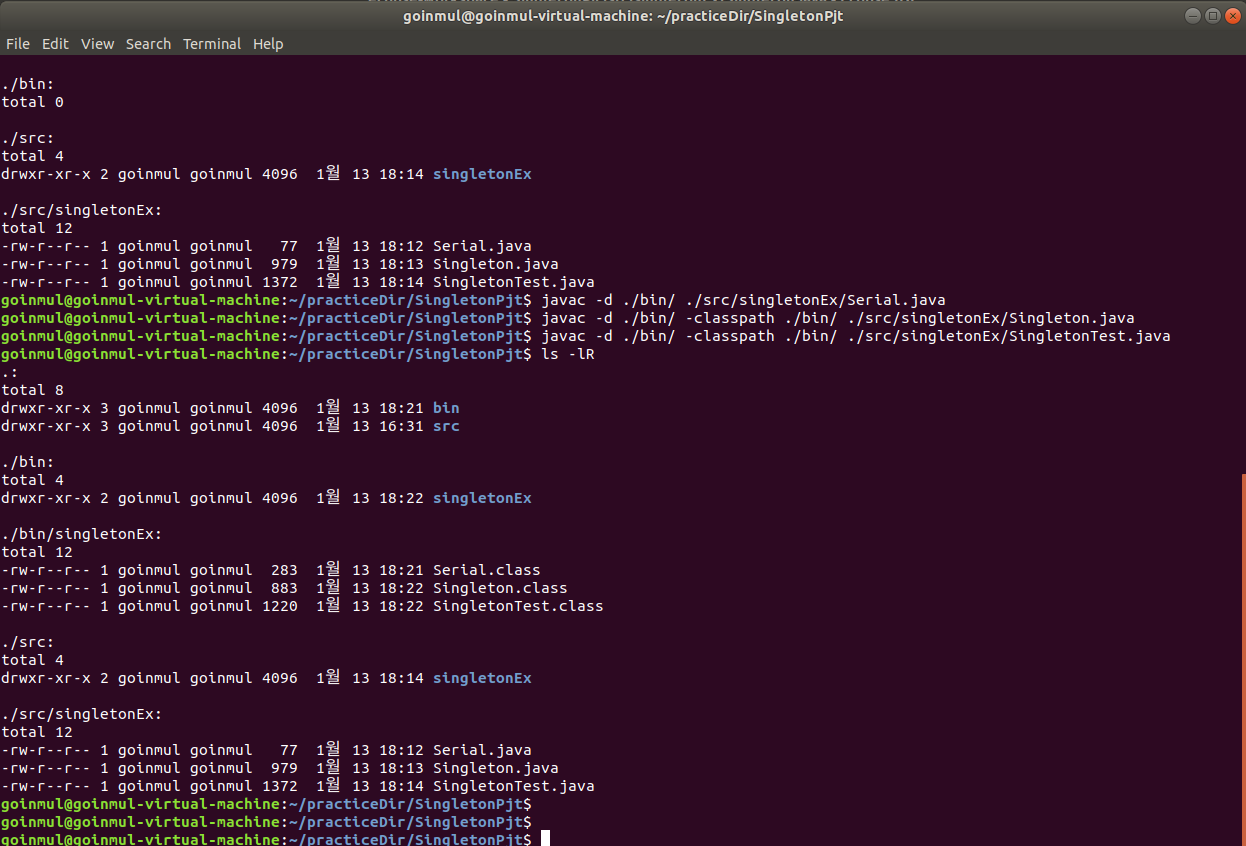
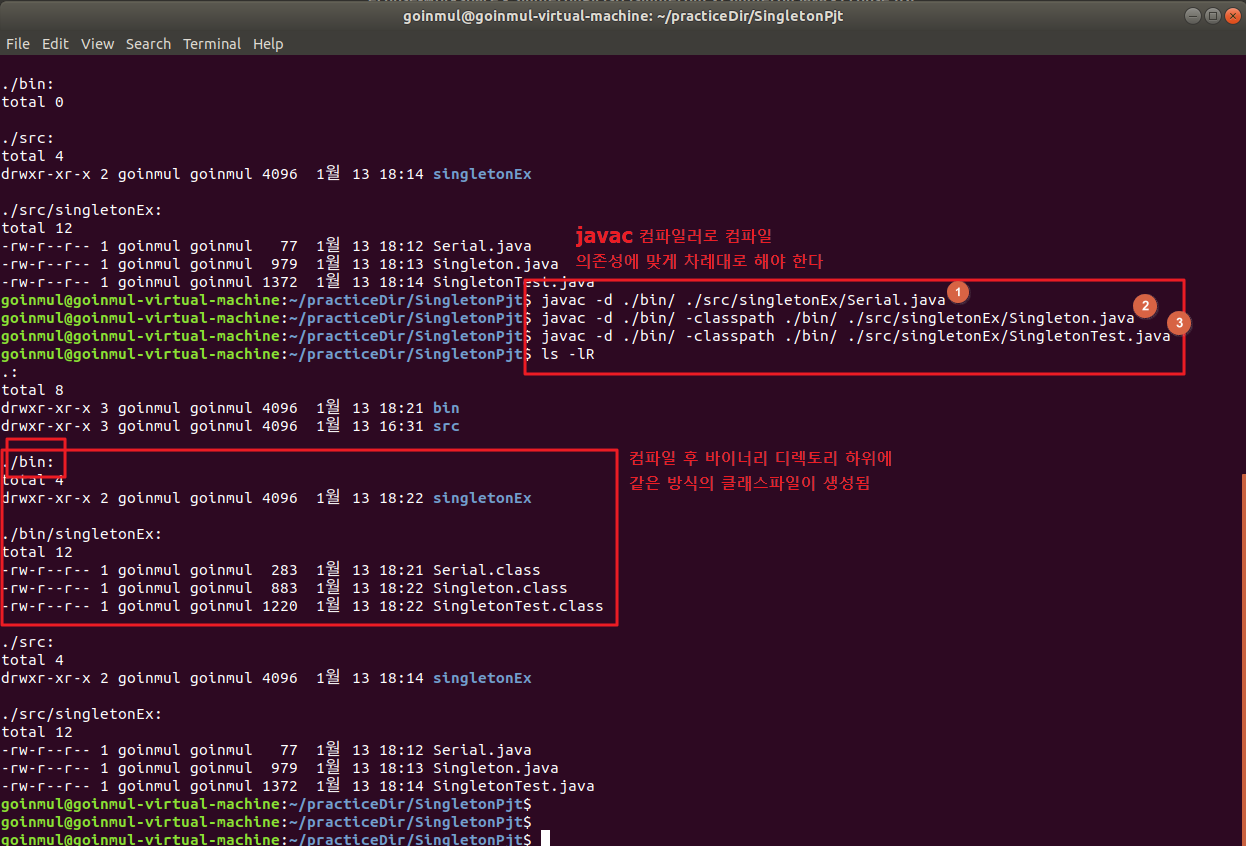
singleton

diff --git a/JAVA/CommandlineCompile.md b/JAVA/CommandlineCompile.md
@@ -19,24 +19,31 @@ Java 언어는,
 - 대표적인 객체지향 언어이며
 - 상속, 모듈화, 다형성 등의 개념을 구현하기 용이하다 (모듈 간 결합도를 낮추고 응집도를 높이는 방향으로 개발 가능)
 - JVM 에 의해 여러 OS 환경에서 운용 가능하기 때문에 이식성이 높고
-- GC 에 의해 메모리를 자동 관리하기 때문에 개발자의 부담이 상대적으로 적다
+- GC 에 의해 메모리를 자동 관리하기 때문에 메모리 관리에 관련된 개발자의 부담이 상대적으로 적다
 
 ### Java Virtual Machine ([JVM])
 
 - 일단 모든 자바 프로젝트 및 파일들은 자바가상머신에 의해 관리된다. JVM 은 프로그램이 실행되는 OS 와 사용자 사이의 중재자 역할로써, 사용자는 JVM 덕분에 환경에 상관 없이 자바 언어로 구성된 프로그램의 실행이 가능하다.
-- 개발자 입장에서도 JVM 은 개발자가 고려해야 할 메모리 관리를 자동으로 수행해주며(gc), OS 환경을 크게 고려하지 않고 코딩할 수 있도록 도와주므로 부담이 줄고 생산성이 높아진다.
-- 구체적으로 JVM 은 자바 컴파일러에 의해 번역된 바이트 코드(byte code)를 자신이 접촉하고 있는 OS 에 맞게 해석하는 방식으로 동작한다
+- 개발자 입장에서도 JVM 은 개발자가 고려해야 할 메모리 관리를 자동으로 수행해주며(GC), OS 환경을 크게 고려하지 않고 코딩할 수 있도록 도와주므로 부담이 줄고 생산성이 높아진다.
+- 구체적으로 JVM 은 최초 OS 로부터 프로그램 실행을 위한 메모리를 할당받아 각 기능에 따라 영역을 나눈다
+- 이후 자바 컴파일러(javac.exe)에 의해 번역된 바이트 코드(byte code)를 자신이 접촉하고 있는 OS 에 맞게 해석하는 방식으로 동작.
+- 이 과정은 클래스 파일을 로드하는 클래스로더, 그것을 해석하는 실행 엔진으로 구성된다
 
-### 메모리 구조와 GC
+### 메모리 구조와 GC ([GC])
 
 - JVM 은 메모리를 크게 세 영역으로 나누어 자바 소스를 관리한다
-	* **네이티브 메서드**(Native Method) 영역 : 자바 프로젝트의 최초 구동 시 [자바 클래스 로더]에 의해 필요한 클래스 및 메서드들이 로드된다
-	* **힙**(Heap) 영역 : 클래스 영역에 로드된 정보를 토대로 실제 객체 인스턴스를 생성해 할당해 두는 영역
-	* **스택**(Stack) 영역 : 메인 메서드가 [스택] 방식으로 실행되는 영역. FILO 방식으로 단계별 누적 실행된다
-- Garbage Collection ([GC])
-	* 오직 Heap 영역에서만 동작하며, 생성된 인스턴스 중 참조되지 않는 객체가 있다면 쓰레기(garbage) 로 간주하여 할당 해제한다
-	* 자동 메모리 관리(automatic memory management) 알고리즘에 의해 동작
-	* 개발자는 GC 에 의해 메모리가 관리되도록 두어야 하며 (사실 별 방법도 없음), 그나마 할 수 있는 처리작업은 **System.gc();** 로 가급적 우선적으로 작업하도록 호출하는 것뿐이다
+	* **메서드(Method)** 영역 : 자바 프로젝트의 최초 구동 시 [자바 클래스 로더]의 Execution Engine 에 의해 목적 클래스파일이 해석되어 적재된다. 클래스 영역이라고도 한다
+	* **힙(Heap)** 영역 : 클래스 영역에 로드된 정보를 토대로 실제 **객체 인스턴스**를 생성해 할당해 두는 영역
+	* **스택(Stack)** 영역 : 메인 메서드가 [스택] 방식으로 실행되는 영역. FILO (LIFO) 방식으로 단계별 누적 실행된다
+- Garbage Collection
+	* Heap 영역에서만 동작하며, 생성된 인스턴스 중 참조되지 않는 객체가 있다면 쓰레기(garbage) 로 간주하여 할당 해제한다
+	* 자동 메모리 관리(automatic memory management) 알고리즘에 의해 동작 (참조 수에 따른 우선순위)
+	* 개발자는 GC 에 의해 메모리가 관리되도록 두어야 하며 (사실 별 방법도 없음), 그나마 할 수 있는 처리는 **System.gc();** 로 GC 가 최대한 우선적으로 작업하도록 호출하는 것뿐이다
+
+![JVM 구조](https://github.com/daesungRa/MyStudy/blob/master/imgs/JVM.png)
+GC 는 클래스 로더와 같은 수준에서 힙 영역에 대해 동작하며,<br/>
+네이티브 메서드 영역은 자바 이외의 언어로 작성된 네이티브 코드를 Java Native Interface(JNI) 로 호출해 적재하는 공간이다.<br/>
+PC 레지스터는 현재 수행 중인 JVM 명령의 주소를 저장하며, 각 스레드가 어떤 식으로 동작해야되는지에 대한 데이터를 처리한다
 
 ### 절차지향 패러다임과의 비교
 
@@ -53,16 +60,65 @@ Java 언어는,
 	* 구조적으로 인프라가 넓고 대용량 데이터를 유기적으로 관리해야 하는 프로그램(웹앱과 같이)에서는 규모에 따라 효율적인 개발 생산성과 범용성 및 이식성의 장점이 있는 객체지향 언어를 사용하는 것이 좋다
 - JVM 과 GC 의 사용여부도 하나의 차이점으로 볼 수 있다
 
-## 자바 프로젝트 생성하기 - 예제) Singleton 프로젝트
+## 자바 프로젝트 생성 및 실행 - 예제) Singleton 프로젝트
 
-- 환경 변수 설정 : 자바 설치 후 시스템 혹은 유저별 환경변수 세팅을 통해 어느 위치에서든 자바 명령을 실행할 수 있도록 한다. 많이 해봤으므로 스킵.
-- 
+1. **환경 설정**
+	* java 1.8.0 설치 후 시스템 혹은 유저별 환경변수 세팅 (JAVA_HOME, classpath) 을 통해 어느 위치에서든 자바 명령을 실행할 수 있도록 한다. 많이 해봤으므로 스킵.
 
-## javac
+2. **프로젝트 생성**
+	* 프로젝트명 : SingletonPjt
+	* 패키지명 : singletonEx
+	* 자바 프로젝트 구조
+		- 지정된 워크스페이스에 생성된 프로젝트 홈 디렉토리를 생성 (~/SingletonPjt/). 일관성을 위해 홈 위치에서 코딩 및 컴파일을 진행한다.
+![홈 디렉토리 생성](https://github.com/daesungRa/MyStudy/blob/master/imgs/singletonEx01.png)
+		- home dir 하위에 바이너리 디렉토리와 소스 디렉토리 생성 (./bin ./src).
+		- 소스 디렉토리-패키지 하위에 필요한 자바 파일을 생성하고 코딩
+![바이너리 및 소스 디렉토리 생성](https://github.com/daesungRa/MyStudy/blob/master/imgs/singletonEx02.png)
 
-- 자바 관련 명령 프로그램은 지정한 자바 경로 내 bin (바이너리, 실행 파일들의 모음) 디렉토리 내에 위치한다
+이해를 위한 이클립스 프로젝트 구성화면
+![자바 프로젝트 전체구조](https://github.com/daesungRa/MyStudy/blob/master/imgs/JavaProjectStructure.png)
+이클립스에서 바이너리 디렉토리는 나타나지 않지만 실제 경로에는 존재하며, 소스코드를 컴파일한 클래스 파일이 자동으로 생성되어 해당 위치에 저장된다
 
-## java
+
+3. 소스코드 작성
+	* 소스코드는 소스 디렉토리에만 작성
+	* 싱글톤 클래스의 생성자가 호출될 때마다 1 씩 증가하는 static int 변수를 갖는 Serial 클래스 작성
+	* 싱글톤 클래스 작성. getInstance() 만 호출 가능하며, 전역 객체가 존재하면 그것을 리턴하고 존재하지 않으면 생성자로 생성하여 리턴한다.
+	* 생성여부 확인을 위해 static serial 변수를 필드로 추가, 생성자에서 Serial 클래스의 전역변수를 1 증가시키고 해당 변수가 그것을 참조하도록 한다
+	* 싱글톤 테스트 메인 메서드에서 차례대로 출력하며 확인한다
+	* 소스 간 의존관계
+		- Serial.java > Singleton.java > SingletonTest.java 순이다
+		- 왜 그런지는 아래 코드 내용을 보면서 한번 생각해볼 것
+		- 이 의존관계에 따라 순차적으로 컴파일하고, 최종적으로 테스트파일을 실행한다
+
+![Serial.java](https://github.com/daesungRa/MyStudy/blob/master/imgs/singletonEx_Serial.png)
+![Singleton.java](https://github.com/daesungRa/MyStudy/blob/master/imgs/singletonEx_Singleton.png)
+![SingletonTest.java](https://github.com/daesungRa/MyStudy/blob/master/imgs/singletonEx_SingletonTest.png)
+
+4. **컴파일 및 실행**
+	* 자바 관련 실행 프로그램은 시스템에 지정한 Java 경로 내 bin (바이너리, 실행 파일들의 모음) 디렉토리 내에 위치한다
+	* 컴파일은 자바 컴파일러(javac.exe) 로, 실행은 자바 실행 명령(java) 으로 수행. 이하 설명
+
+### javac
+
+- 구성
+	* javac [옵션] [목적 자바 소스파일]
+- 옵션
+	* -d : 컴파일된 클래스파일이 생성되는 경로를 지정
+	* -classpath : 의존관계에 있다면, 의존하는 클래스파일이 존재하는 경로를 지정
+	* 이 밖에 더 있지만 위 두 개가 주요하므로 나머지는 추후 공부해볼 것
+
+![컴파일 결과](https://github.com/daesungRa/MyStudy/blob/master/imgs/singletonEx03.png)
+
+### java
+
+- 구성
+	* java [옵션] [목적 클래스 실행파일]
+- 옵션
+	* -classpath : 의존관계에 있다면, 의존하는 클래스파일이 존재하는 경로를 지정
+	* 이 밖에 더 있지만 위 두 개가 주요하므로 나머지는 추후 공부해볼 것
+
+![실행 화면](https://github.com/daesungRa/MyStudy/blob/master/imgs/singletonEx04.png)
 
 ## 느낀점
 
